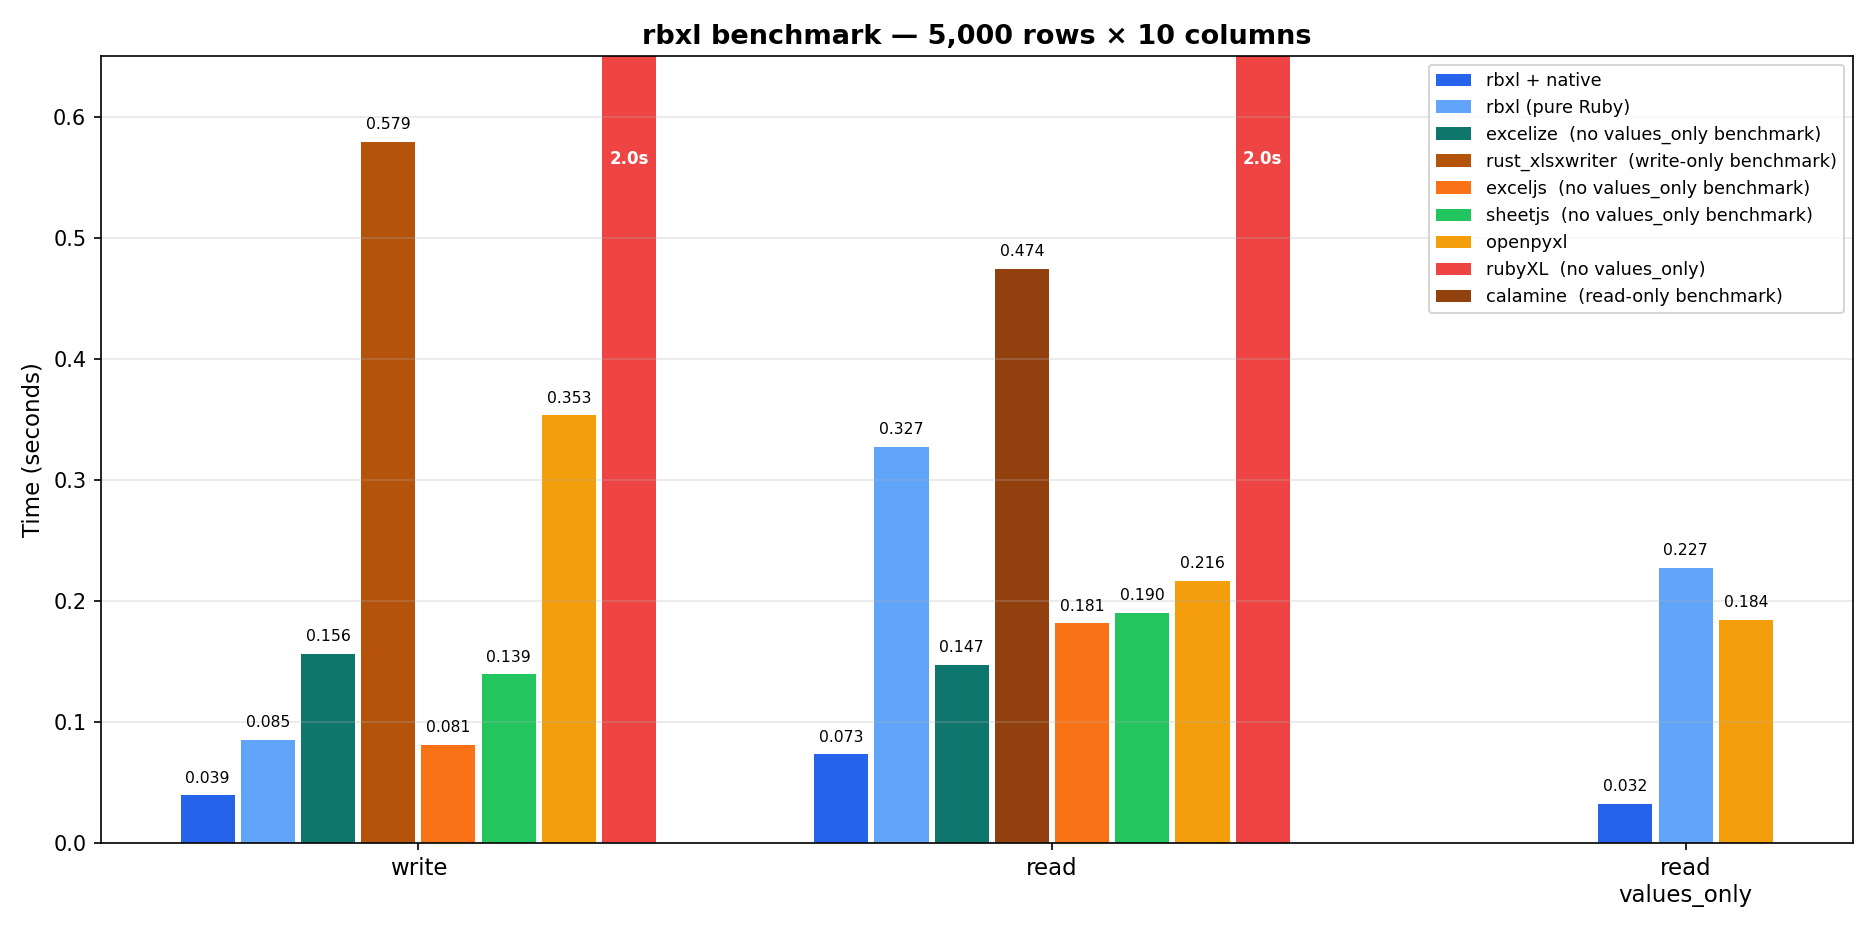
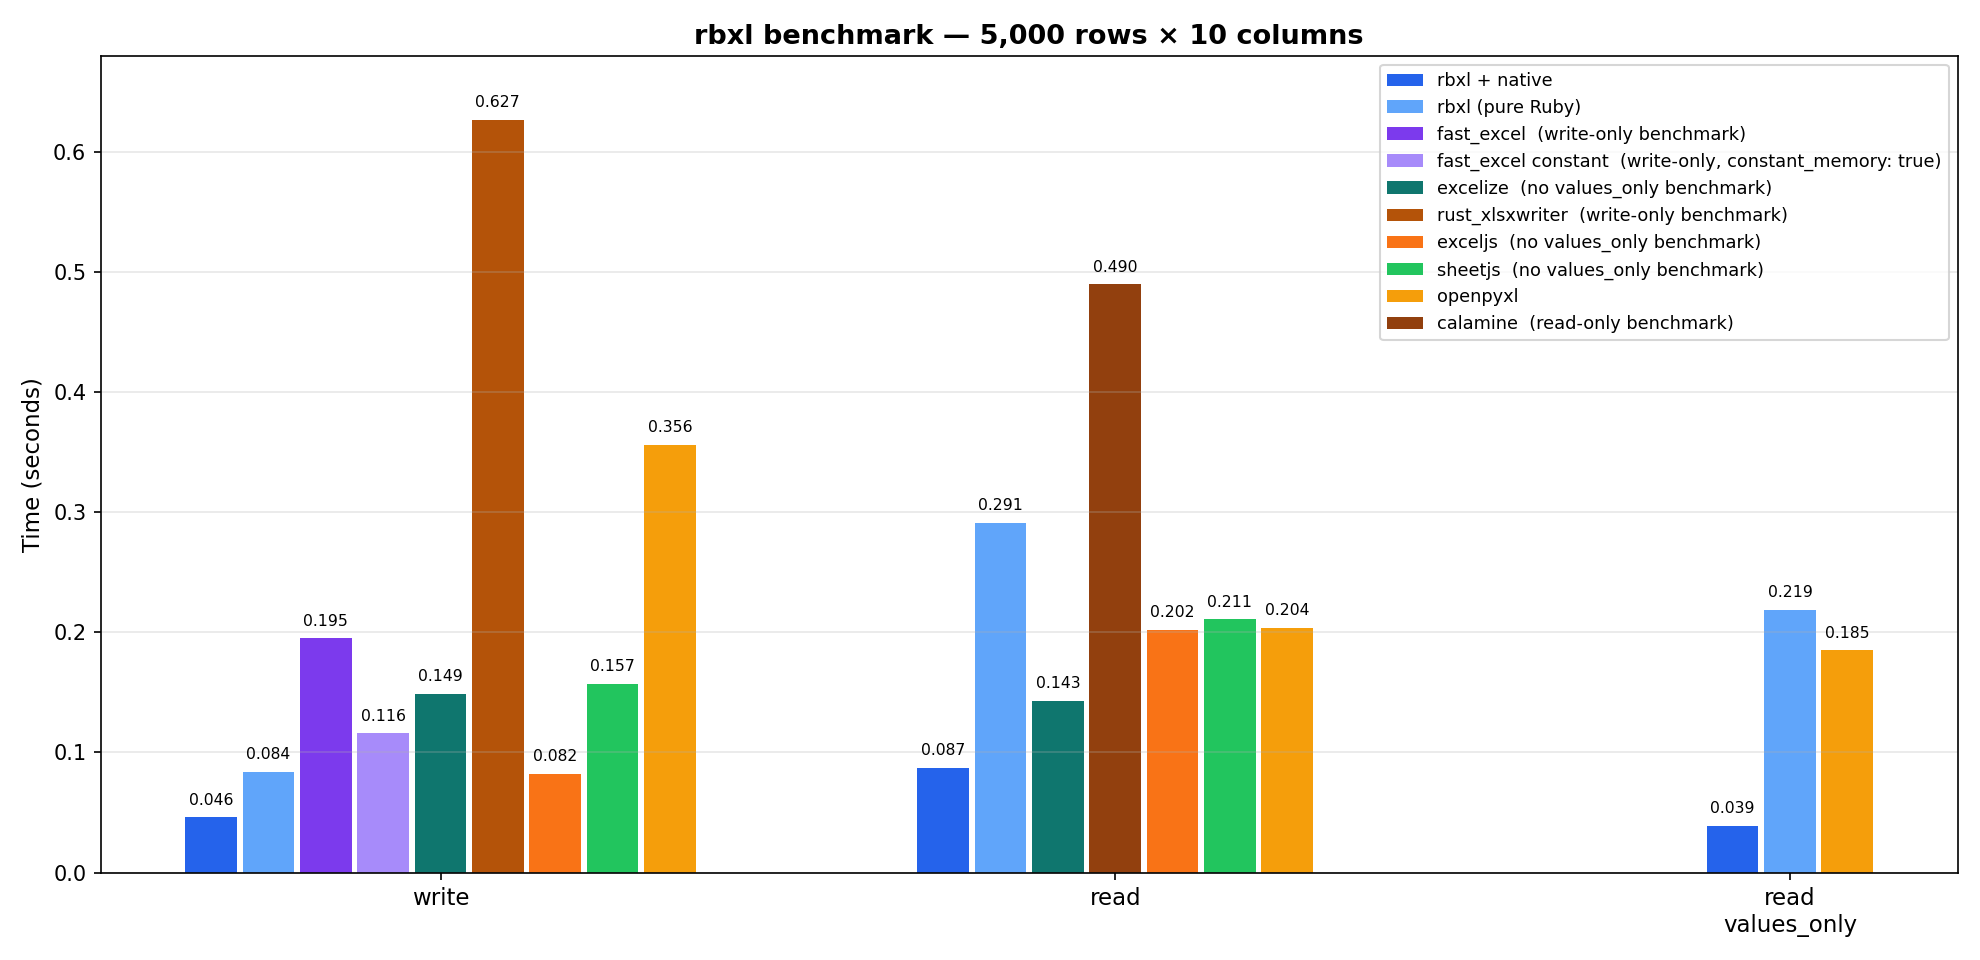
Add fast_excel benchmarks and refresh docs

diff --git a/benchmark/plot.py b/benchmark/plot.py
@@ -11,47 +11,50 @@ matplotlib.use("Agg")
 categories = ["write", "read", "read\nvalues_only"]
 
 data = {
-    "rbxl + native":    [0.039, 0.073, 0.032],
-    "rbxl (pure Ruby)": [0.085, 0.327, 0.227],
-    "excelize":         [0.156, 0.147, None],
-    "rust_xlsxwriter":  [0.579, None, None],
-    "calamine":         [None, 0.474, None],
-    "exceljs":          [0.081, 0.181, None],
-    "sheetjs":          [0.139, 0.190, None],
-    "openpyxl":         [0.353, 0.216, 0.184],
-    "rubyXL":           [2.041, 2.000, None],
+    "rbxl + native":        [0.046, 0.087, 0.039],
+    "rbxl (pure Ruby)":     [0.084, 0.291, 0.219],
+    "fast_excel":           [0.195, None, None],
+    "fast_excel constant":  [0.116, None, None],
+    "excelize":             [0.149, 0.143, None],
+    "rust_xlsxwriter":      [0.627, None, None],
+    "calamine":             [None, 0.490, None],
+    "exceljs":              [0.082, 0.202, None],
+    "sheetjs":              [0.157, 0.211, None],
+    "openpyxl":             [0.356, 0.204, 0.185],
 }
 
 # None = library does not support this mode
 # (roo is read-only, caxlsx is write-only)
 
 colors = {
-    "rbxl + native":    "#2563eb",
-    "rbxl (pure Ruby)": "#60a5fa",
-    "excelize":         "#0f766e",
-    "rust_xlsxwriter":  "#b45309",
-    "calamine":         "#92400e",
-    "exceljs":          "#f97316",
-    "sheetjs":          "#22c55e",
-    "openpyxl":         "#f59e0b",
-    "rubyXL":           "#ef4444",
+    "rbxl + native":        "#2563eb",
+    "rbxl (pure Ruby)":     "#60a5fa",
+    "fast_excel":           "#7c3aed",
+    "fast_excel constant":  "#a78bfa",
+    "excelize":             "#0f766e",
+    "rust_xlsxwriter":      "#b45309",
+    "calamine":             "#92400e",
+    "exceljs":              "#f97316",
+    "sheetjs":              "#22c55e",
+    "openpyxl":             "#f59e0b",
 }
 
 # Footnotes for missing data
 notes = {
+    "fast_excel": "write-only benchmark",
+    "fast_excel constant": "write-only, constant_memory: true",
     "excelize": "no values_only benchmark",
     "rust_xlsxwriter": "write-only benchmark",
     "calamine": "read-only benchmark",
     "exceljs": "no values_only benchmark",
     "sheetjs": "no values_only benchmark",
-    "rubyXL": "no values_only",
 }
 
 libs = list(data.keys())
-max_y = 0.65
-bar_width = 0.095
+max_y = 0.68
+bar_width = 0.085
 
-fig, ax = plt.subplots(figsize=(12.5, 6.2))
+fig, ax = plt.subplots(figsize=(13.2, 6.4))
 
 # For each category, only place bars that have data, centered
 for cat_idx, cat in enumerate(categories):

diff --git a/benchmark/compare.rb b/benchmark/compare.rb
@@ -78,6 +78,15 @@ def write_with_rbxl(path, header, body)
   book.save(path)
 end
 
+def write_with_fast_excel(path, header, body, constant_memory: false)
+  File.delete(path) if File.exist?(path)
+  workbook = FastExcel.open(path, constant_memory: constant_memory)
+  worksheet = workbook.add_worksheet("Bench")
+  worksheet.append_row(header)
+  body.each { |row| worksheet.append_row(row) }
+  workbook.close
+end
+
 def read_with_rbxl(path)
   book = Rbxl.open(path, read_only: true)
   count = 0
@@ -247,6 +256,16 @@ Dir.mktmpdir("rbxl-compare-") do |dir|
   if load_optional("caxlsx")
     caxlsx_path = File.join(dir, "caxlsx.xlsx")
     results << benchmark("caxlsx write") { write_with_caxlsx(caxlsx_path, header, body) }.merge(size: File.size(caxlsx_path))
+  end
+
+  if load_optional("fast_excel")
+    fast_excel_path = File.join(dir, "fast_excel.xlsx")
+    results << benchmark("fast_excel write") { write_with_fast_excel(fast_excel_path, header, body) }.merge(size: File.size(fast_excel_path))
+
+    fast_excel_constant_path = File.join(dir, "fast_excel_constant.xlsx")
+    results << benchmark("fast_excel write constant") do
+      write_with_fast_excel(fast_excel_constant_path, header, body, constant_memory: true)
+    end.merge(size: File.size(fast_excel_constant_path))
   end
 
   if load_optional("roo")

diff --git a/README.md b/README.md
@@ -70,6 +70,20 @@ book.sheet("Data").rows(values_only: true).each { |row| process(row) }
 book.close
 ```
 
+For large worksheets where peak memory matters more than squeezing out the
+last few percent of throughput, opt into chunk-fed worksheet inflation:
+
+```ruby
+require "rbxl"
+require "rbxl/native"
+
+Rbxl.max_worksheet_bytes = 64 * 1024 * 1024
+
+book = Rbxl.open("large.xlsx", read_only: true, streaming: true)
+book.sheet("Data").rows(values_only: true).each { |row| process(row) }
+book.close
+```
+
 The C extension is **opt-in by design**:
 
 - **Portability first**: `require "rbxl"` alone works everywhere Ruby and
@@ -93,7 +107,9 @@ The C extension is **opt-in by design**:
   input stream, so peak memory stays roughly independent of sheet size.
   Pair with `Rbxl.max_worksheet_bytes` to cap uncompressed worksheet
   inflation and stop high-compression zip-bomb style entries mid-inflate.
-  Throughput is usually within a few percent of the default path.
+  Throughput is usually within a few percent of the default path. Without
+  `require "rbxl/native"`, the flag is accepted but the pure-Ruby reader
+  still takes the buffered path.
 
 Requirements for the C extension:
 
@@ -154,23 +170,27 @@ best read as:
 | benchmark | real (s) |
 |---|---|
 | rbxl write | 0.08 |
-| rbxl read | 0.33 |
-| rbxl read values | 0.23 |
+| rbxl read | 0.29 |
+| rbxl read values | 0.22 |
+| fast_excel write | 0.18 |
+| fast_excel write constant | 0.12 |
 | exceljs write | 0.08 |
-| exceljs read | 0.17 |
+| exceljs read | 0.19 |
 | sheetjs write | 0.13 |
-| sheetjs read | 0.19 |
-| openpyxl write | 0.35 |
-| openpyxl read | 0.22 |
+| sheetjs read | 0.20 |
+| openpyxl write | 0.36 |
+| openpyxl read | 0.21 |
 | openpyxl read values | 0.18 |
+| excelize write | 0.15 |
+| excelize read | 0.14 |
 
 ### Performance Mode (`require "rbxl/native"`)
 
 | benchmark | real (s) | vs exceljs/openpyxl |
 |---|---|---|
-| rbxl write | **0.04** | about 2x / 9x faster |
-| rbxl read | **0.07** | about 2.6x / 3.2x faster |
-| rbxl read values | **0.03** | about 6.8x faster than openpyxl values |
+| rbxl write | **0.05** | about 1.8x faster than exceljs, 2.5x faster than fast_excel constant, 7.7x faster than openpyxl |
+| rbxl read | **0.09** | about 2.3x faster than exceljs, 2.4x faster than openpyxl |
+| rbxl read values | **0.04** | about 4.8x faster than openpyxl values |
 
 The comparison script uses these libraries when available:
 
@@ -178,12 +198,14 @@ Benchmark notes:
 
 - `RBXL_BENCH_WARMUP` and `RBXL_BENCH_ITERATIONS` control warmup and repeated runs.
 - Read comparisons use the same `rbxl.xlsx` fixture for `rbxl`, `roo`, `rubyXL`, and `openpyxl`.
+- `fast_excel` adds write-only comparisons for both its default mode and `constant_memory: true`.
 - JS comparisons use the same `rbxl.xlsx` fixture for `exceljs` and `sheetjs`.
 - Write comparisons still measure each library producing its own workbook.
 - `rss_delta_kb` is best-effort process RSS on Linux and should be treated as directional.
 - Install JS benchmark dependencies with `cd benchmark && npm install`.
 
 - `rbxl` for write/read
+- `fast_excel` for write / constant-memory write
 - `exceljs` for write/read
 - `sheetjs` for write/read
 - `excelize` (Go) for write/read

diff --git a/CHANGELOG.md b/CHANGELOG.md
@@ -2,8 +2,11 @@
 
 ## 1.0.2
 
+- Add `streaming: true` to `Rbxl.open` to feed worksheet XML to the native reader in 64 KiB chunks instead of buffering the full worksheet first.
+- Add `Rbxl.max_worksheet_bytes` and `Rbxl::WorksheetTooLargeError` so streaming reads can stop oversized worksheet XML entries mid-inflate.
 - Expand RDoc coverage across the public API.
 - Tighten RBS signatures to match the actual runtime types.
+- Reword public docs and gem metadata to describe reads as row-by-row and writes as append-only, reserving "streaming" for the new opt-in native read path.
 
 ## 1.0.1
 
